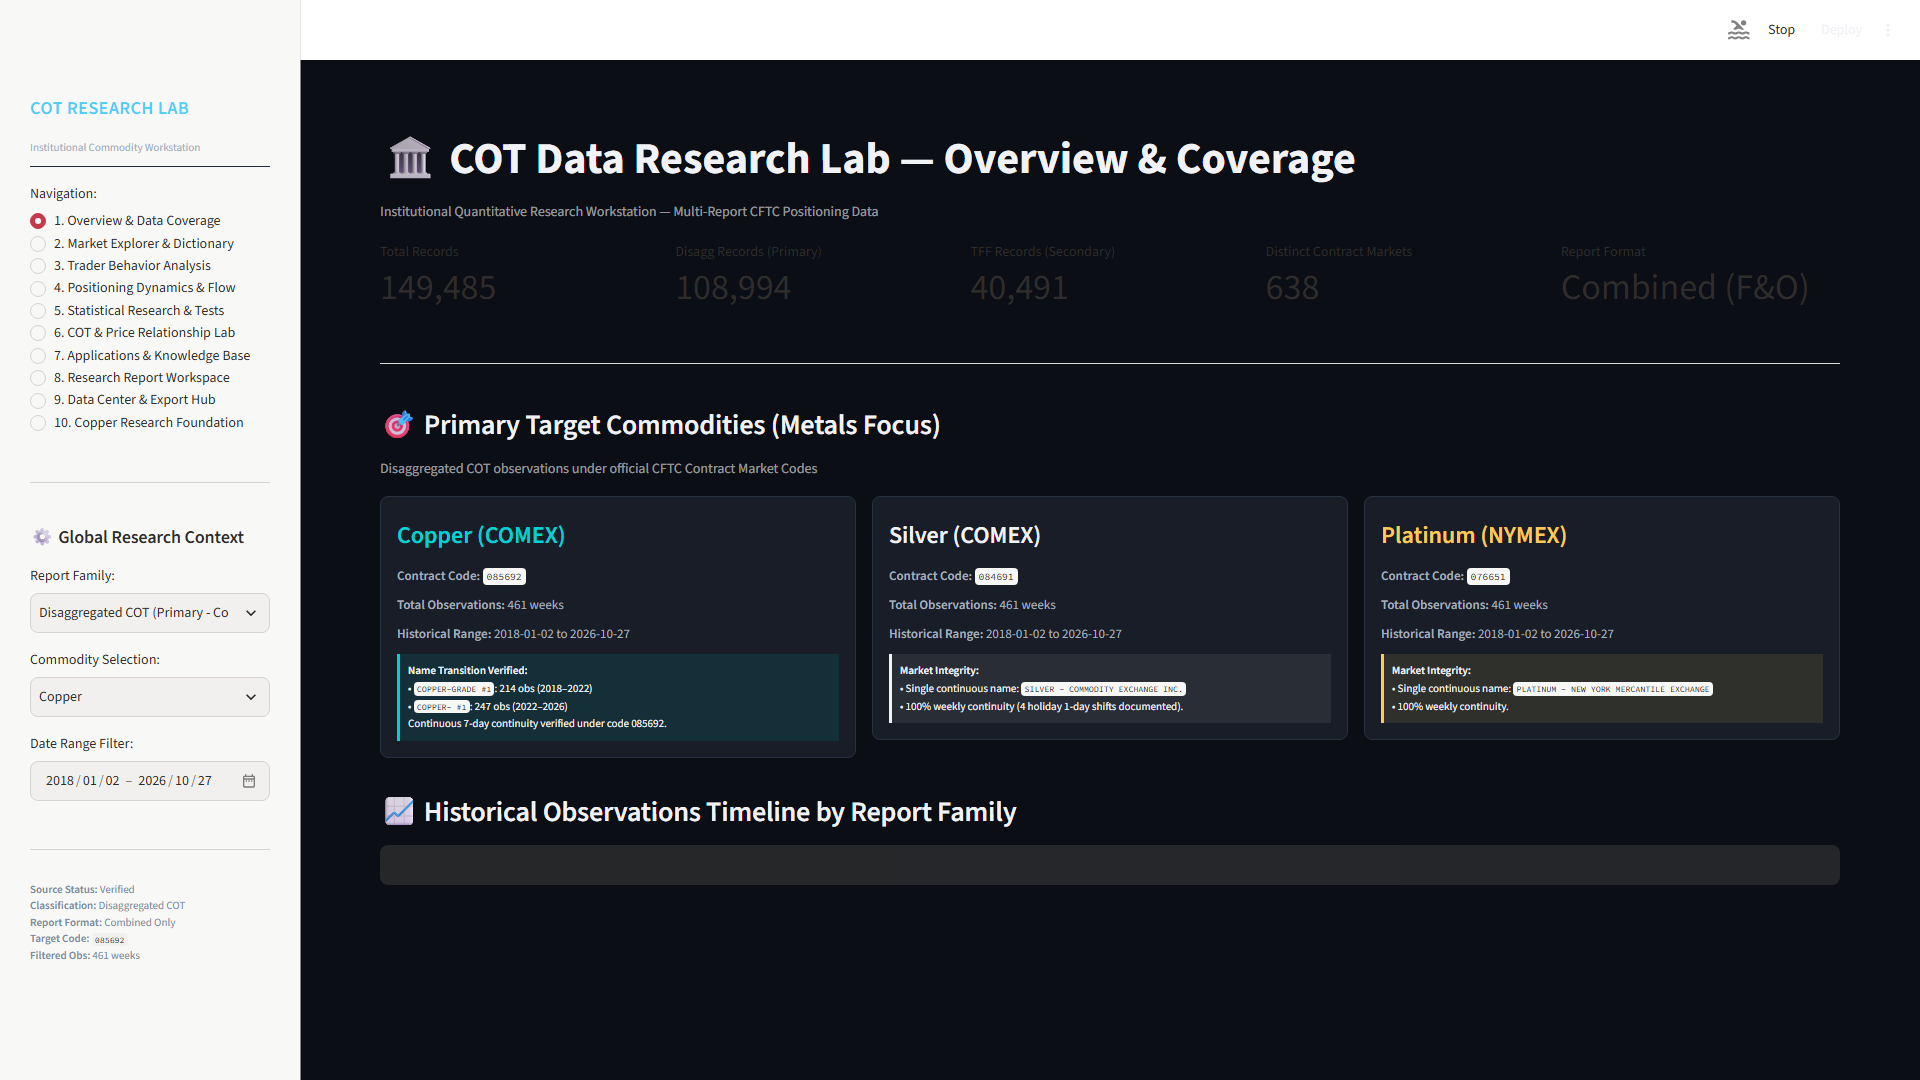
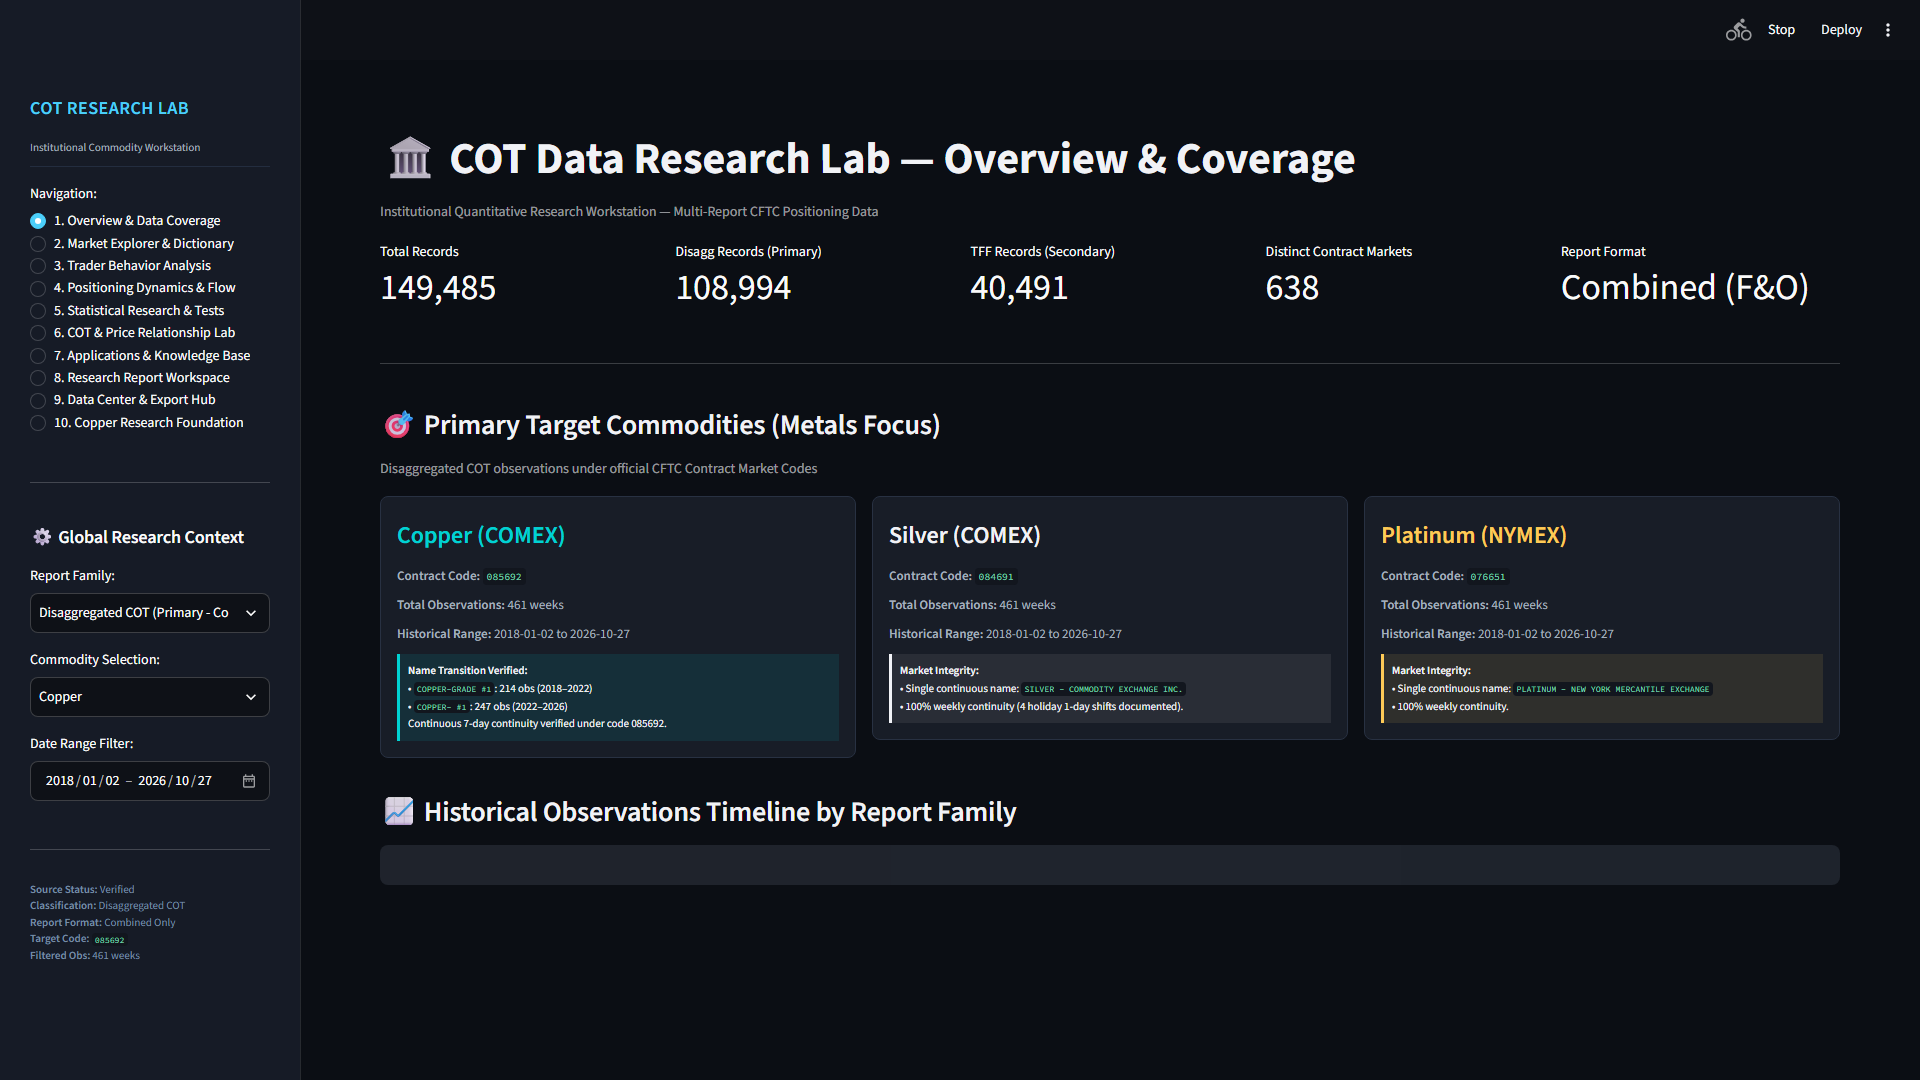
style: switch all screenshots and demo GIF to institutional dark mode with .streamlit theme configuration

diff --git a/run_research_lab.py b/run_research_lab.py
@@ -95,7 +95,16 @@ MODULES = [
     "10. Copper Research Foundation"
 ]
 
-selected_module = st.sidebar.radio("Navigation:", MODULES, index=0)
+# Support deep-link query parameter ?mod=0..9
+try:
+    default_mod_idx = int(st.query_params.get("mod", 0))
+    if default_mod_idx < 0 or default_mod_idx >= len(MODULES):
+        default_mod_idx = 0
+except Exception:
+    default_mod_idx = 0
+
+selected_module = st.sidebar.radio("Navigation:", MODULES, index=default_mod_idx)
+
 
 st.sidebar.markdown("---")
 st.sidebar.markdown("### ⚙ Global Research Context")
